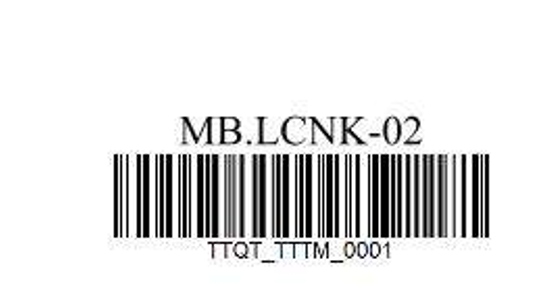
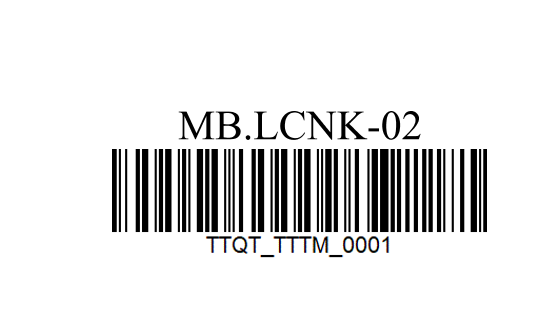
fix bug read barcode

Changed region(s): [[0.1855, 0.33, 0.8964, 0.9]]

diff --git a/src/main/java/com/example/demo/Service/OcrService.java b/src/main/java/com/example/demo/Service/OcrService.java
@@ -94,7 +94,7 @@ public class OcrService implements OcrServiceImpl {
             File tempFile = File.createTempFile("tempfile_" + page, ".png");
             Rectangle rectangle = getRectangle(code);
             ImageIO.write(bufferedImage, "png", tempFile);
-            result = tesseract.doOCR(tempFile, rectangle);
+            result = tesseract.doOCR(tempFile);
             out.append(result);
         }
         return out.toString();
@@ -129,7 +129,7 @@ public class OcrService implements OcrServiceImpl {
             List<String> barcodes = new ArrayList<>();
             for (int page = 0; page < document.getNumberOfPages(); page++) {
                 BufferedImage bufferedImage = pdfRenderer.renderImageWithDPI(page, 300, ImageType.RGB);
-                BufferedImage crop = cropImage(bufferedImage, 1860, 50, 550, 300);
+                BufferedImage crop = cropImage(bufferedImage, 1860, 55, 550, 320);
                 File file = new File(String.format("ToImage-img-%d.png", page));
                 ImageIO.write(crop, "png", file);
                 String result = readBarcode(file);
